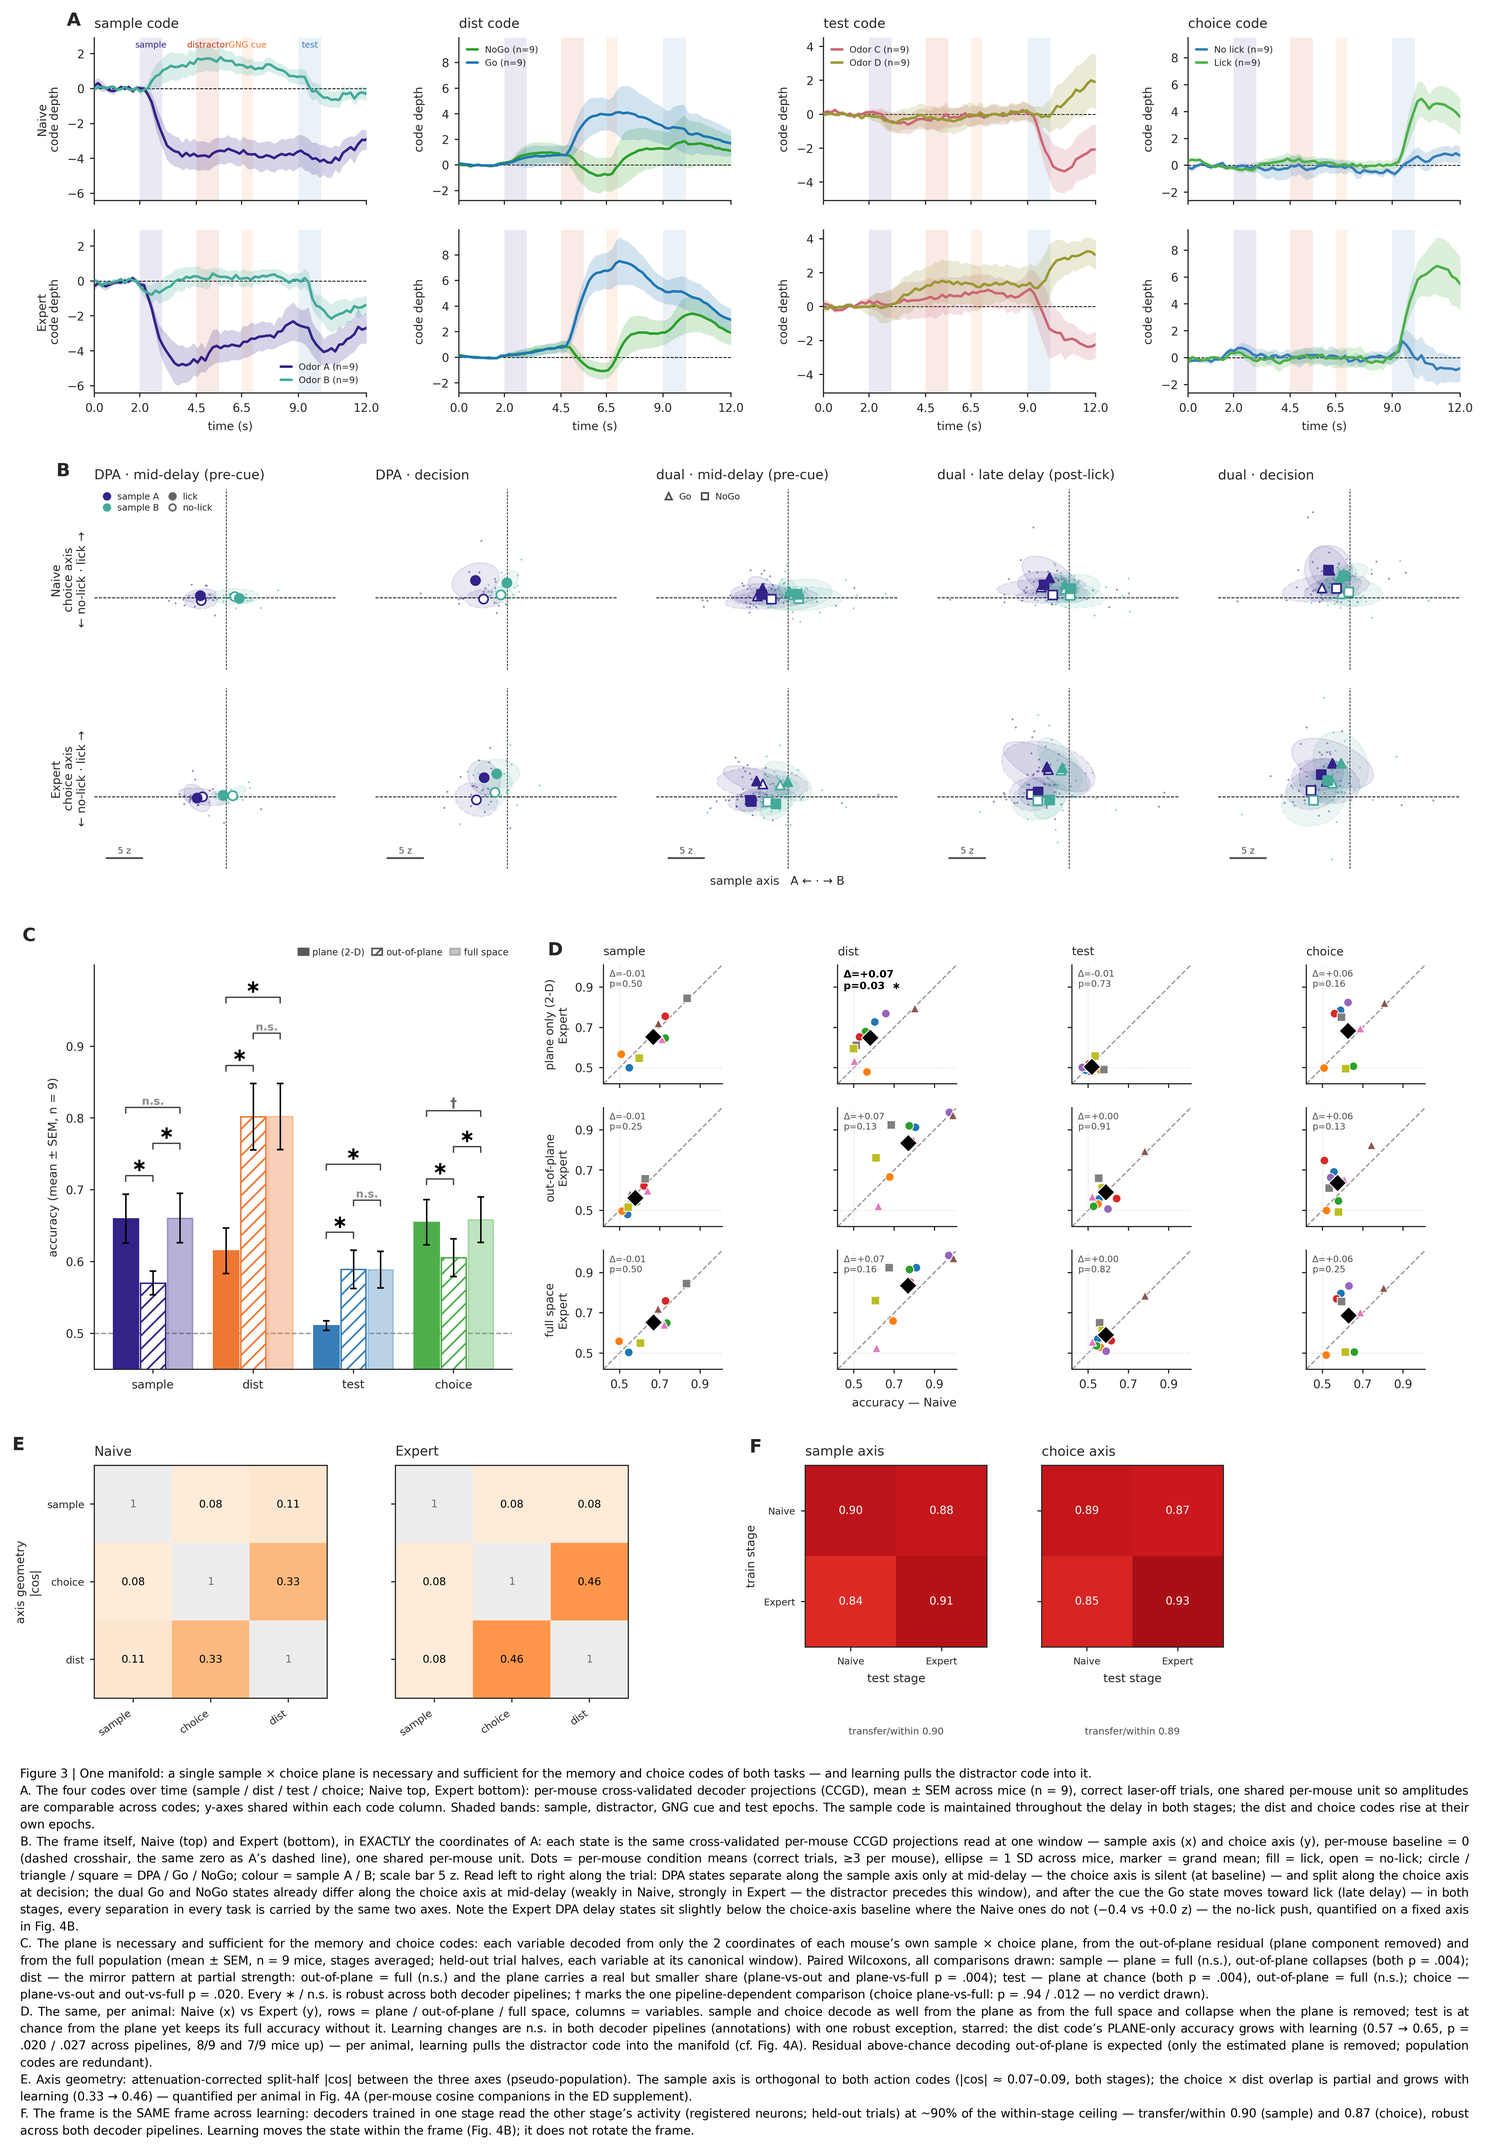
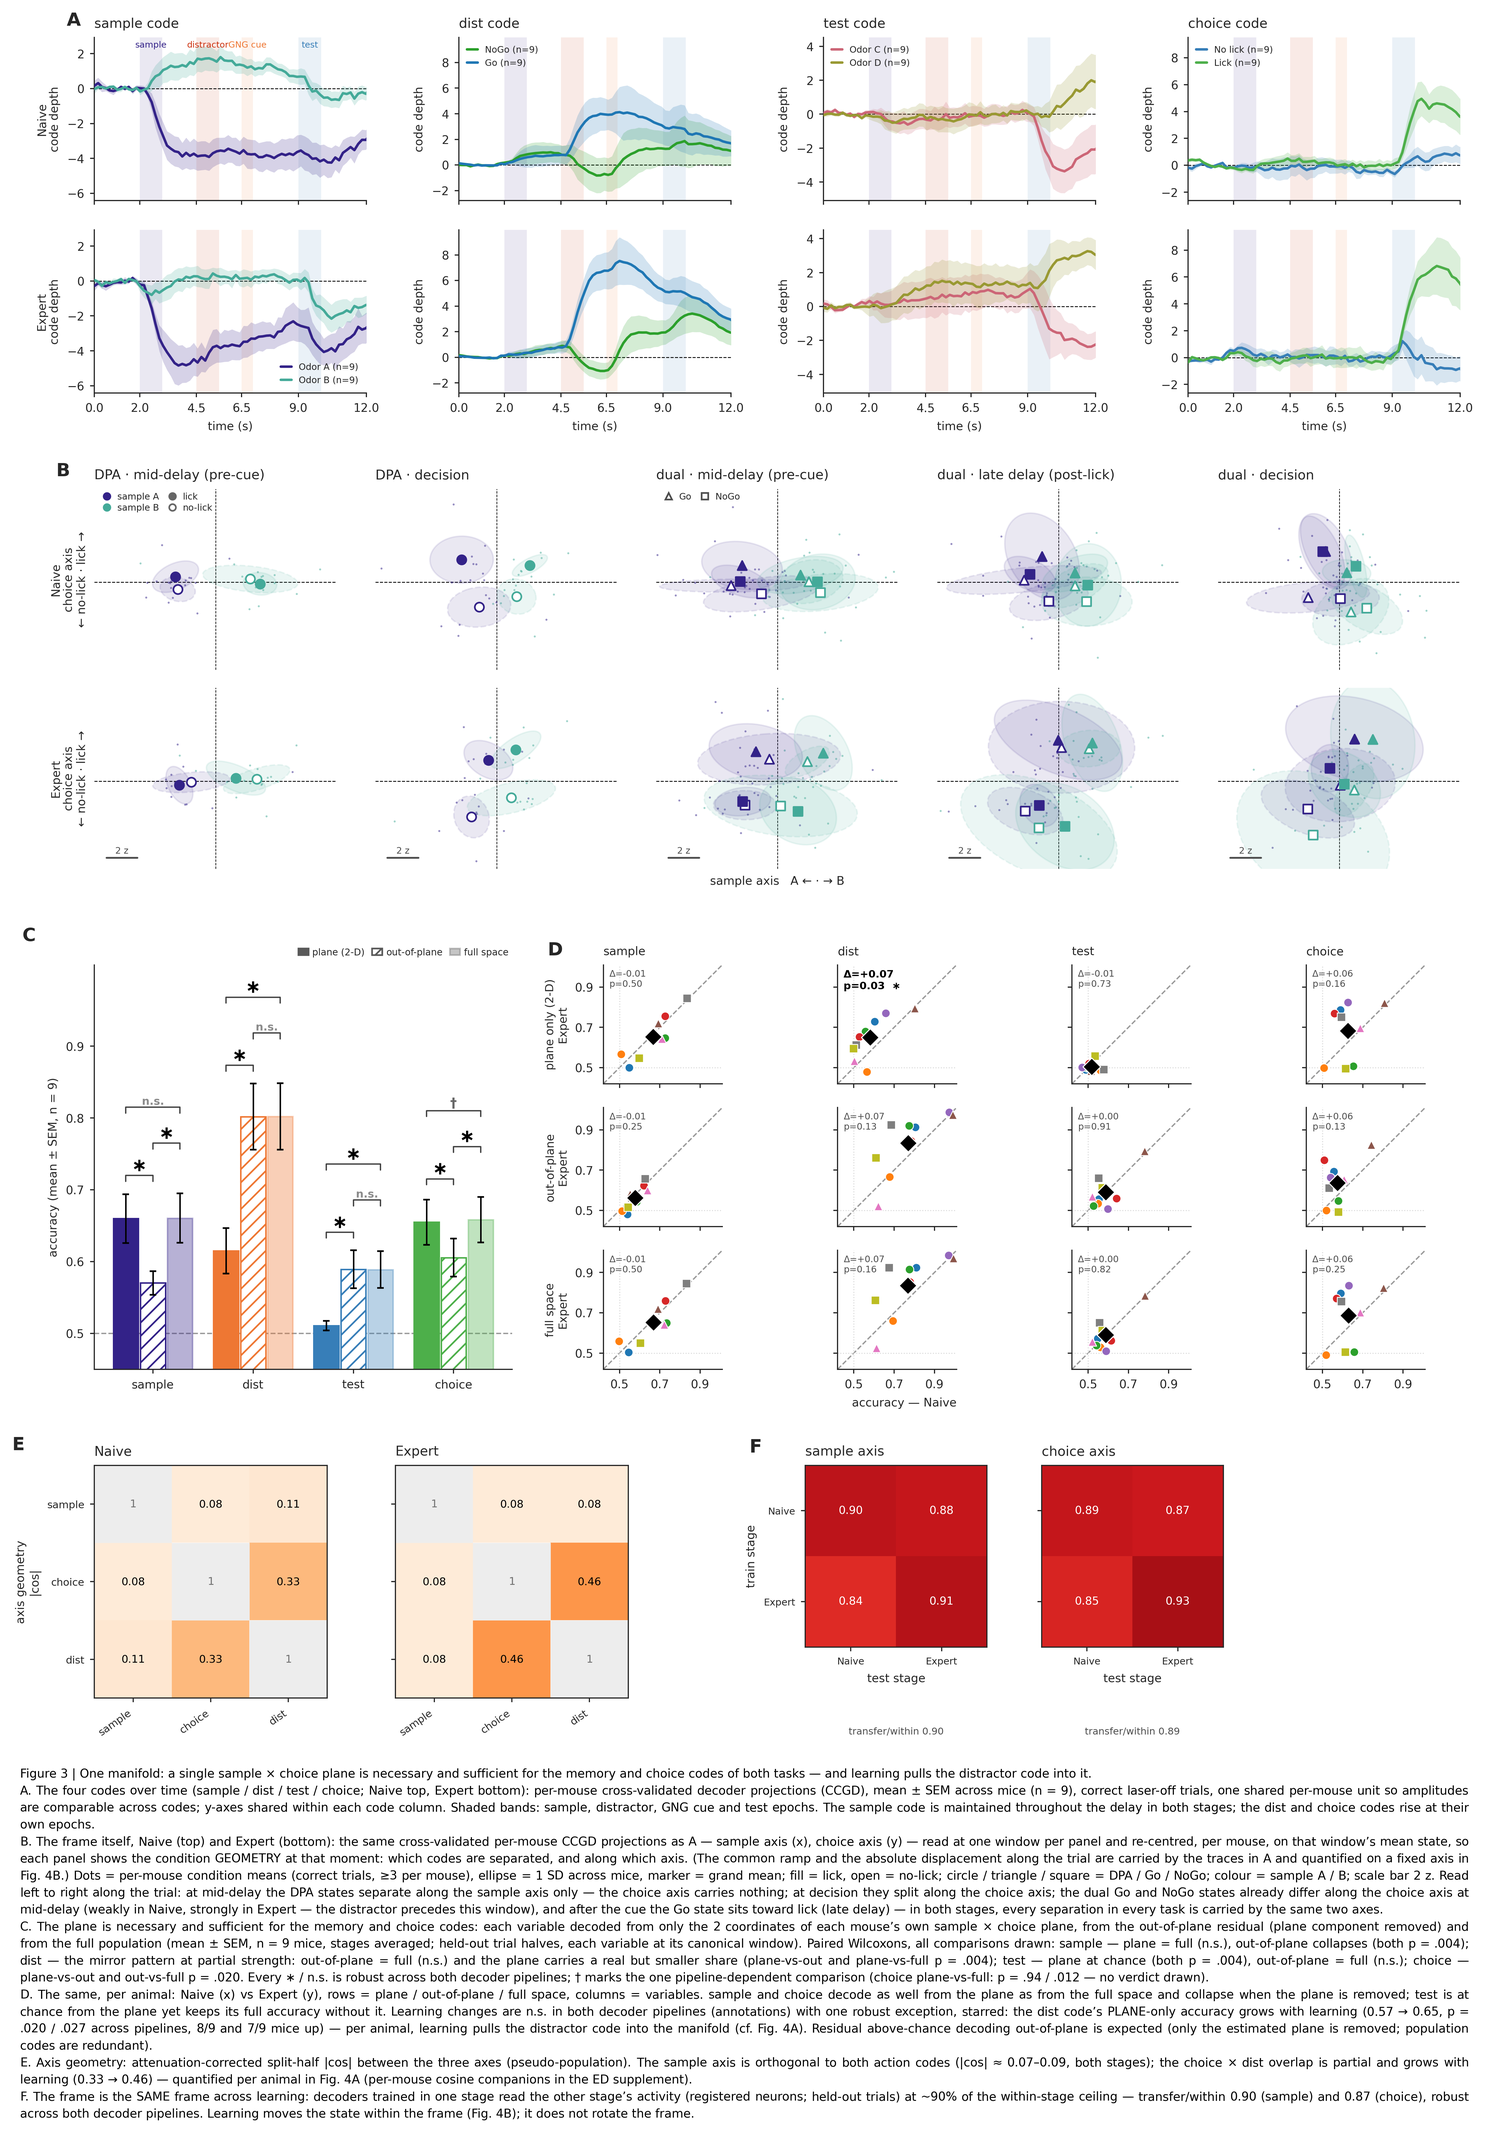
Fig 3 storyboard: re-centre each window per mouse (condition geometry only)
The raw CCGD replay was position-faithful to panel A but unreadable: between-mouse
offsets and the shared ramp inflated the across-mice ellipses into overlapping soup,
and both decision classes riding the ramp up hid the lick split. Each window is now
re-centred per mouse on its cross-condition mean state (cache keeps mouse ids), so
every panel reads out that moment's geometry: mid-delay = sample split only, decision
= four-quadrant choice split, dual Go-NoGo choice split growing +1.2 -> +4.2 z (md)
with learning. Crosshair = window-mean state; absolute displacement (ramp, no-lick
push) stays with A's traces and Fig 4B. Limits from 2-98 percentiles, scale bar 2 z;
caption B rewritten with no absolute-position claims.

Claude-Session: https://claude.ai/code/session_01U5815xHXRaRQ7YCxMTgCsM

diff --git a/pca/fig_manifold_main.py b/pca/fig_manifold_main.py
@@ -117,26 +117,45 @@ assert FS_KEY in RES, (f'missing {FS_KEY} — run: cd /home/leon/dual/pca && pyt
 # FRAME_STATES[(stage, set, window)] = {(task, samp, lick): (n_mice, 2) per-mouse [x, y] means}
 
 
+def _centered(ENT):
+    """Per-mouse re-centring of one storyboard window: subtract each mouse's cross-condition
+    mean state, so the panel shows the CONDITION GEOMETRY — which codes separate, along which
+    axis — free of the common ramp and of between-mouse offsets (both of which swamped the
+    clouds in the raw replay). The removed absolute displacement lives in panel A's traces and
+    is quantified on a fixed axis in Fig 4B."""
+    per = {}
+    for cd, (mice, P) in ENT.items():
+        for mo, p in zip(mice, P):
+            per.setdefault(mo, []).append(p)
+    off = {mo: np.mean(v, 0) for mo, v in per.items() if len(v) >= 2}
+    out = {}
+    for cd, (mice, P) in ENT.items():
+        pts = np.array([p - off[mo] for mo, p in zip(mice, P) if mo in off])
+        if len(pts) >= 3:
+            out[cd] = pts
+    return out
+
+
 def panel_a(fig, gsA):
-    """The storyboard, 2 rows (Naive | Expert) x 5 windows, replayed from FRAME_STATES: faint
-    dots = per-mouse condition means (>=3 trials), ellipse = 1 SD across mice, marker = the grand
-    mean. Crosshair = the pre-trial baseline — the SAME zero as the panel-A traces (per-mouse
-    CCGD units; the fixed-axis quantitative push is Fig 4's). All ten frames share one x/y range
-    so positions are comparable at a glance."""
+    """The storyboard, 2 rows (Naive | Expert) x 5 windows, replayed from FRAME_STATES (the
+    panel-A CCGD projections) and re-centred per mouse per window (_centered): faint dots =
+    per-mouse condition means (>=3 trials), ellipse = 1 SD across mice, marker = the grand mean,
+    crosshair = the window's mean state. All ten frames share one x/y range."""
     FS = RES[FS_KEY]
-    ALL = np.vstack([v for st in ['Naive', 'Expert'] for sp in B_SPECS
-                     for v in FS[(st,) + sp].values()])
-    pad = 0.06 * (ALL[:, 0].max() - ALL[:, 0].min())
-    XL = (min(ALL[:, 0].min(), 0) - pad, max(ALL[:, 0].max(), 0) + pad)
-    padY = 0.06 * (ALL[:, 1].max() - ALL[:, 1].min())
-    YL = (min(ALL[:, 1].min(), 0) - padY, max(ALL[:, 1].max(), 0) + padY)
+    CEN = {(st,) + sp: _centered(FS[(st,) + sp]) for st in ['Naive', 'Expert'] for sp in B_SPECS}
+    ALL = np.vstack([pts for ent in CEN.values() for pts in ent.values()])
+    # shared range from the 2-98 percentiles of the per-mouse dots (a few outlier dots clip;
+    # the raw min/max left the row mostly empty around a thin data band)
+    x0, x1 = np.percentile(ALL[:, 0], [2, 98]); y0, y1 = np.percentile(ALL[:, 1], [2, 98])
+    XL = (x0 - 0.08 * (x1 - x0), x1 + 0.08 * (x1 - x0))
+    YL = (y0 - 0.08 * (y1 - y0), y1 + 0.08 * (y1 - y0))
     WLAB = {'md': 'mid-delay (pre-cue)', 'delay': 'late delay (post-lick)', 'decision': 'decision'}
     axes = []
     for r, stage in enumerate(['Naive', 'Expert']):
         for j, (sname, wn) in enumerate(B_SPECS):
             ax = fig.add_subplot(gsA[r, j]); axes.append(ax)
-            ENT = FS[(stage, sname, wn)]
-            # crosshair = the pre-trial baseline (zero), exactly as in the panel-A traces
+            ENT = CEN[(stage, sname, wn)]
+            # crosshair = this window's cross-condition mean state (per mouse)
             ax.axhline(0, ls='--', color='k', lw=0.5, zorder=0)
             ax.axvline(0, ls='--', color='k', lw=0.4, zorder=0)
             for cd, P in ENT.items():
@@ -159,8 +178,8 @@ def panel_a(fig, gsA):
             if r == 1:
                 x0, x1 = ax.get_xlim(); y0, y1 = ax.get_ylim()
                 sx = x0 + 0.05 * (x1 - x0); sy = y0 + 0.06 * (y1 - y0)
-                ax.plot([sx, sx + 5], [sy, sy], '-', color='0.3', lw=1.1)
-                ax.text(sx + 2.5, sy + 0.015 * (y1 - y0), '5 z', ha='center', va='bottom',
+                ax.plot([sx, sx + 2], [sy, sy], '-', color='0.3', lw=1.1)
+                ax.text(sx + 1.0, sy + 0.015 * (y1 - y0), '2 z', ha='center', va='bottom',
                         fontsize=5.4, color='0.3')
                 if j == 2:                           # one shared x-label, centred under the grid
                     ax.set_xlabel('sample axis   A ← · → B', fontsize=7)
@@ -183,15 +202,21 @@ def panel_a(fig, gsA):
             ynl = np.mean([g[1] for cd, g in gm.items() if not cd[2]])
             ssep = (np.mean([g[0] for cd, g in gm.items() if cd[1] == 1])
                     - np.mean([g[0] for cd, g in gm.items() if cd[1] == 0]))
+            gng = ''
+            if sname == 'dual':
+                gsplit = (np.mean([g[1] for cd, g in gm.items() if cd[0] == 'DualGo'])
+                          - np.mean([g[1] for cd, g in gm.items() if cd[0] == 'DualNoGo']))
+                gng = f'  Go-NoGo y {gsplit:+.2f}'
             print(f'a: {stage:6s} {sname:4s} {wn:9s} action-axis '
-                  f'lick {ylk:+6.2f} / no-lick {ynl:+6.2f}  sample sep {ssep:+.2f}')
+                  f'lick {ylk:+6.2f} / no-lick {ynl:+6.2f}  sample sep {ssep:+.2f}{gng}')
     return axes[0]
 
 
 # ══ a — TRAJECTORIES (top row): replayed CCGD projections (ORIG_TRACES) ═══════
-#   Same convention as the storyboard below (per-mouse CCGD projections, baseline zero) — since
-#   the FRAME_STATES replay (2026-08-31) the trace zero IS the storyboard crosshair, and a trace's
-#   value at a window matches the storyboard cloud's position there. t = bin/6 - 0.5 s (exact).
+#   Same projections and units as the storyboard below; the traces carry the ABSOLUTE positions
+#   (baseline zero, ramp included) while each storyboard window is re-centred on its own mean
+#   state — so trace SEPARATIONS match cloud separations window by window, but the trace value
+#   is not the cloud's crosshair offset. t = bin/6 - 0.5 s (exact).
 TBIN = lambda b: np.asarray(b) / 6.0 - 0.5
 EVENTS = [('sample', 2.0, 3.0, SAMPC[0]), ('distractor', 4.5, 5.5, '#cc3311'),
           ('GNG cue', 6.5, 7.0, '#ee7733'), ('test', 9.0, 10.0, '#377eb8')]
@@ -524,20 +549,20 @@ CAP_PARAS = [
     'within each code column. Shaded bands: sample, distractor, GNG cue and test epochs. The sample '
     'code is maintained throughout the delay in both stages; the dist and choice codes rise at their '
     'own epochs.',
-    'B. The frame itself, Naive (top) and Expert (bottom), in EXACTLY the coordinates of A: each '
-    'state is the same cross-validated per-mouse CCGD projections read at one window — sample '
-    'axis (x) and choice axis (y), per-mouse baseline = 0 (dashed crosshair, the same zero as '
-    'A’s dashed line), one shared per-mouse unit. Dots = per-mouse condition means (correct '
-    'trials, ≥3 per mouse), ellipse = 1 SD across mice, marker = grand mean; fill = lick, open = '
-    'no-lick; circle / triangle / square = DPA / Go / NoGo; colour = sample A / B; scale bar 5 z. '
-    'Read left to right along the trial: DPA states separate along the sample axis only at '
-    'mid-delay — the choice axis is silent (at baseline) — and split along the choice axis at '
-    'decision; the dual Go and NoGo states already differ along the choice axis at mid-delay '
-    '(weakly in Naive, strongly in Expert — the distractor precedes this window), and after the '
-    'cue the Go state moves toward lick (late delay) — in both stages, every separation in every '
-    'task is carried by the same two axes. Note the Expert DPA delay states sit slightly below '
-    'the choice-axis baseline where the Naive ones do not (−0.4 vs +0.0 z) — the no-lick push, '
-    'quantified on a fixed axis in Fig. 4B.',
+    'B. The frame itself, Naive (top) and Expert (bottom): the same cross-validated per-mouse '
+    'CCGD projections as A — sample axis (x), choice axis (y) — read at one window per panel '
+    'and re-centred, per mouse, on that window’s mean state, so each panel shows the condition '
+    'GEOMETRY at that moment: which codes are separated, and along which axis. (The common ramp '
+    'and the absolute displacement along the trial are carried by the traces in A and quantified '
+    'on a fixed axis in Fig. 4B.) Dots = per-mouse condition means (correct trials, ≥3 per '
+    'mouse), ellipse = 1 SD across mice, marker = grand mean; fill = lick, open = no-lick; '
+    'circle / triangle / square = DPA / Go / NoGo; colour = sample A / B; scale bar 2 z. Read '
+    'left to right along the trial: at mid-delay the DPA states separate along the sample axis '
+    'only — the choice axis carries nothing; at decision they split along the choice axis; the '
+    'dual Go and NoGo states already differ along the choice axis at mid-delay (weakly in '
+    'Naive, strongly in Expert — the distractor precedes this window), and after the cue the Go '
+    'state sits toward lick (late delay) — in both stages, every separation in every task is '
+    'carried by the same two axes.',
     'C. The plane is necessary and sufficient for the memory and choice codes: each variable '
     'decoded from only the 2 coordinates of each mouse’s own sample × choice plane, from the '
     'out-of-plane residual (plane component removed) and from the full population (mean ± SEM, '

diff --git a/pca/exp_frame_states.py b/pca/exp_frame_states.py
@@ -18,7 +18,8 @@ Windows (overlaps T_WINDOW=0 bins): md = bins_MD 33-38 · delay = BINS_LATE 45-5
 decision = 57-62 incl. (the DPA action window).
 
 Output: merges {'FRAME_STATES' (plain) / 'FRAME_STATES_pca20' (--pca)} into results.pkl:
-FRAME_STATES[(stage, set, window)] = {(task, samp, lick): (n_mice, 2) per-mouse [x, y] means}.
+FRAME_STATES[(stage, set, window)] = {(task, samp, lick): (mice, (n_mice, 2) [x, y] means)} —
+mouse ids kept so the figure can re-centre each window per mouse (condition geometry only).
 Run:  cd /home/leon/dual/pca && /home/leon/mambaforge/envs/dual/bin/python exp_frame_states.py [--pca]
 """
 import sys, os, warnings, pickle
@@ -69,17 +70,17 @@ for stage in MP.STAGES:
         for tk in tset:
             for sv in (0, 1):
                 for lv in (0, 1):
-                    pm = []
+                    mice, pm = [], []
                     for mo in MP.ALL_MICE:
                         sx = cell(CS, stage, tk, sv, lv, mo) & np.isfinite(x)
                         sy = cell(CL, stage, tk, sv, lv, mo) & np.isfinite(y)
                         assert sx.sum() == sy.sum(), (stage, tk, sv, lv, mo)
                         if sx.sum() >= 3:
-                            pm.append([x[sx].mean(), y[sy].mean()])
+                            mice.append(mo); pm.append([x[sx].mean(), y[sy].mean()])
                     if len(pm) >= 3:
-                        ent[(tk, sv, bool(lv))] = np.asarray(pm)
+                        ent[(tk, sv, bool(lv))] = (mice, np.asarray(pm))
         OUT[(stage, sname, wn)] = ent
-        gm = {cd: v.mean(0) for cd, v in ent.items()}
+        gm = {cd: v.mean(0) for cd, (_, v) in ent.items()}
         ymn = np.array([g[1] for g in gm.values()])
         ylk = np.array([g[1] for cd, g in gm.items() if cd[2]])
         ynl = np.array([g[1] for cd, g in gm.items() if not cd[2]])

diff --git a/docs/pca/dimensionality.md b/docs/pca/dimensionality.md
@@ -346,7 +346,7 @@ learning, knob-robust).** Per-mouse cosine scatters → fig_manifold_supp.py pan
 Fig 4A's data). Caption title = the proven claim (necessary & sufficient + dist pulled in).
 Reading order: frame → proof → geometry/identity. exp_plane_frame.py now run for BOTH pipelines.
 
-### 2026-08-31 storyboard REPLACED by a CCGD REPLAY (user: "B is not consistent with A") — FINAL
+### 2026-08-31 storyboard REPLACED by a CCGD REPLAY (user: "B is not consistent with A")
 Two fresh-axis origin conventions failed in one day, and the failure is structural: the
 storyboard's freshly-fit single-window axes carry the trial's condition-independent ramp (the
 documented 29–45% contamination), so NO single origin works — **baseline-zero** dragged every
@@ -362,8 +362,21 @@ independently per table (means don't need trial pairing). Storyboard glyphs: fai
 per-mouse means, ellipse = 1 SD across mice, marker = grand mean; **crosshair = per-mouse
 baseline zero = exactly A's dashed line** — A and B are literally the same coordinates and units
 (shared across stages too). All fresh-axis machinery (build_frame/sample_axis/lick_axis/cloud/
-pseudo-trials, the fits_inputs.pkl load) is deleted from `fig_manifold_main.py`. Settled numbers
-(canonical): DPA·md choice-axis Naive +0.03 vs **Expert −0.44 z** (the honest baseline-referenced
-push preview, caption "−0.4 vs +0.0"); DPA·decision lick +4.15/+3.79, no-lick +0.93/−0.76
-(both classes ride the ramp up — no-lick is NOT symmetric-negative); dual·decision lick +5.6/+5.0;
-sample sep at md ≈ 4.8 both stages.
+pseudo-trials, the fits_inputs.pkl load) is deleted from `fig_manifold_main.py`.
+
+### 2026-08-31 storyboard FINAL: per-window per-mouse RE-CENTRING (user: "worse than ever — just
+### readout the mid delay clouds and decision clouds correctly")
+The raw replay was consistent with A but unreadable: between-mouse offsets + the shared ramp
+inflated the 1-SD-across-mice ellipses into an overlapping soup, and the absolute positions
+(both decision classes riding the ramp up) hid the splits. FINAL design: `_centered()` in
+`fig_manifold_main.py` subtracts, per mouse per window, that mouse's cross-condition mean state
+(cache now keeps mouse ids), so each panel shows ONLY the condition geometry at that moment —
+which codes are separated and along which axis. Crosshair = the window-mean state; the absolute
+displacement (ramp, no-lick push) belongs to panel A's traces and Fig 4B, and B's caption makes
+no absolute-position claims anymore. Shared axes limits from the 2–98 percentiles of the
+per-mouse dots (outliers clip); scale bar 2 z. Settled per-window numbers (canonical): sample
+sep at md ≈ 4.8/4.8 (Naive/Expert); DPA·decision lick−no-lick split 3.2/4.6 (= A's trace gaps
+exactly); **dual Go−NoGo choice-axis split md +1.2 → +4.2, late delay +1.5 → +6.2 with
+learning** — the "weak in Naive, strong in Expert" caption claim, now printed by the script.
+Consistency with A holds at the level of SEPARATIONS (identical projections ⇒ identical gaps);
+trace values are not the cloud offsets (those are centred away).
